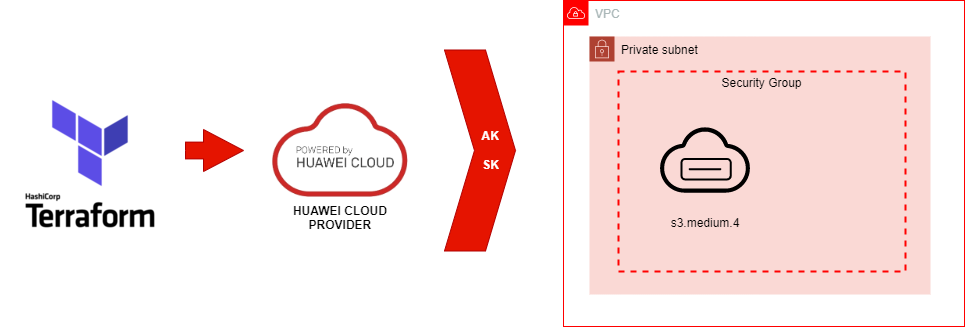
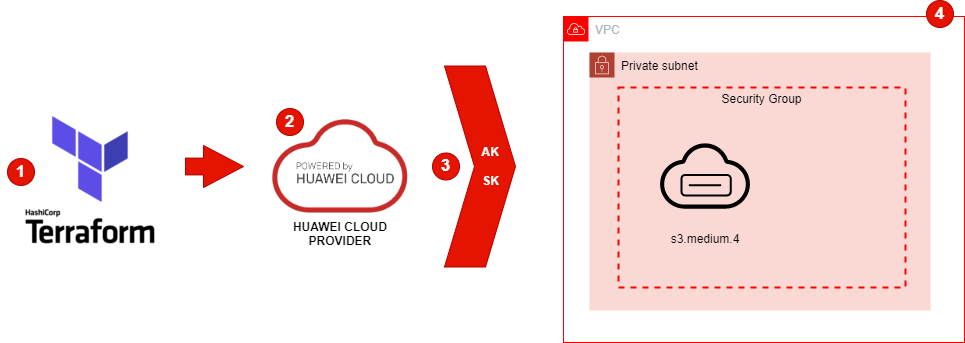
Doc update

diff --git a/README.md b/README.md
@@ -9,7 +9,19 @@ Principalmente se trata del aprovisionamiento de:
 
 ![Solution Diagram](huawei_tf.png "Solution Diagram")
 
+1. Install Terraform
+2. Add the oficial provider
+3. Obtain Active and Secret Key (AK/SK)
+4. Resoources are deploy to the cloud
+
 ## Requirements
 ------------
 * Terraform: https://www.terraform.io
 * Huawei provider: https://github.com/huaweicloud/terraform-provider-huaweicloud
+
+## Instructions
+------------
+* Obtain a AK/SK from the Huawei Cloud console in [MyCredentials](https://console-intl.huaweicloud.com/iam/#/mine/apiCredential) page 
+* Add your AK/SK data and region to the terraform.tfvars terraform file
+* Don't forget initialize your environment with: `terraform init`
+* Apply the script into the cloud using: `terraform apply`
